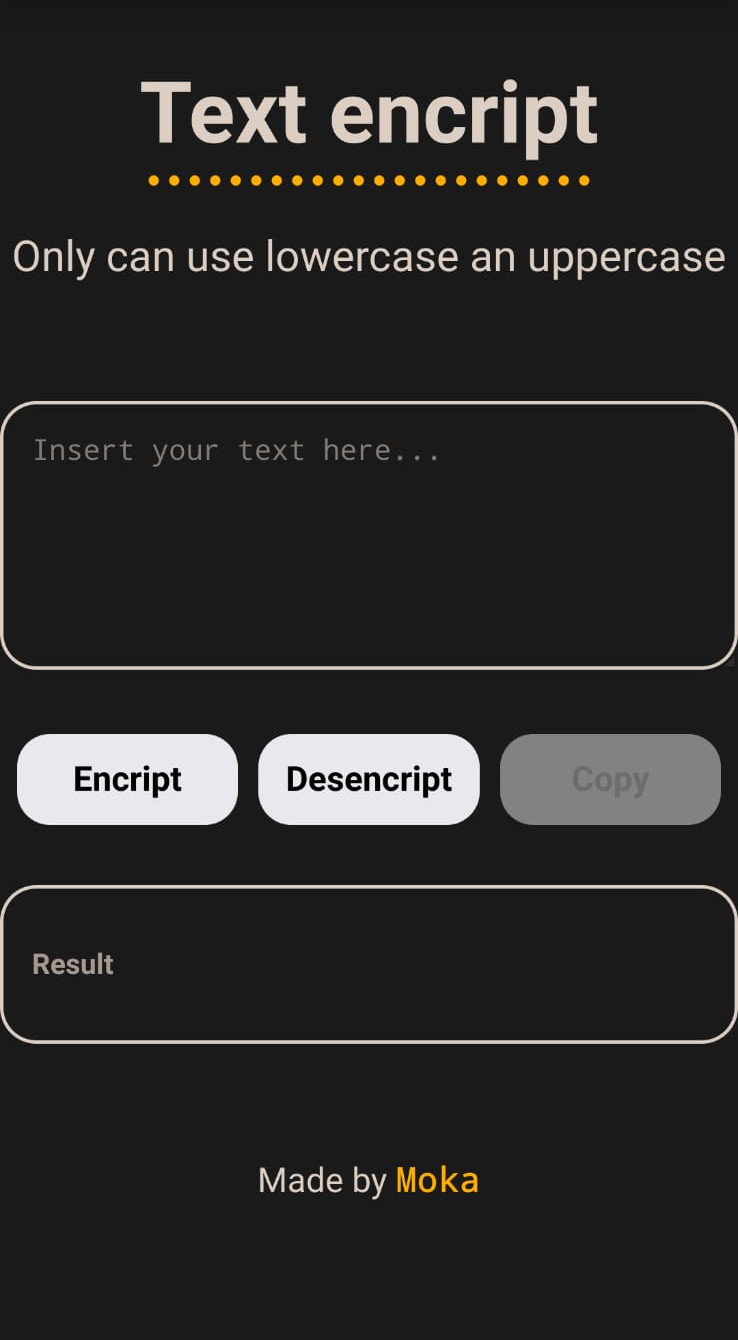
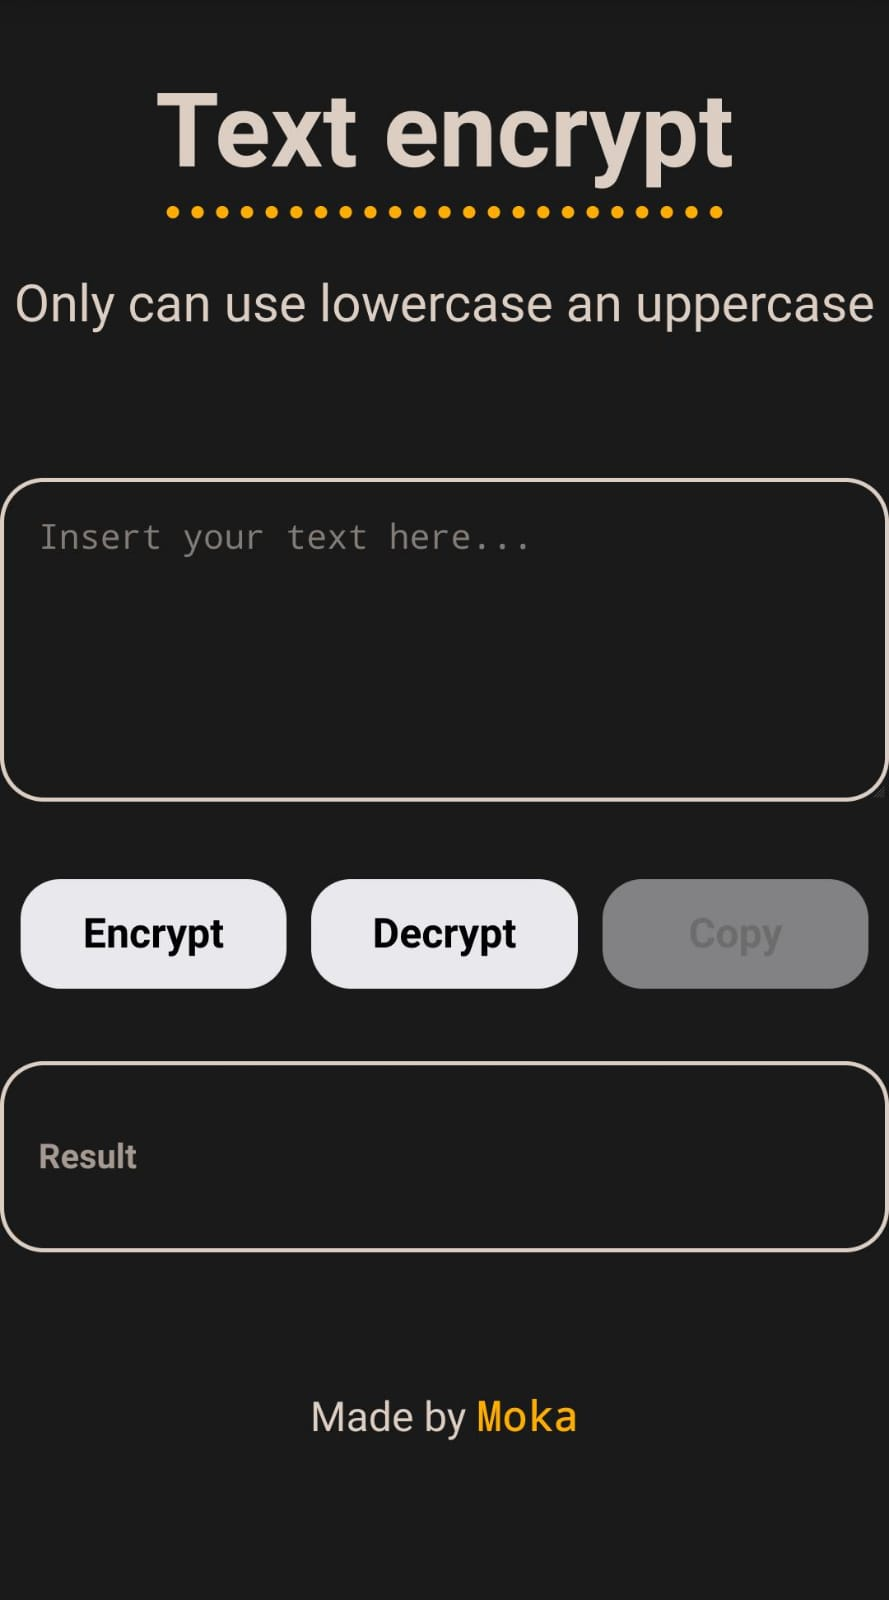
img correction

diff --git a/index.html b/index.html
@@ -21,7 +21,7 @@
                 <textarea class="textArea" name="textareaEncrypt" id="INPUT_TEXT" placeholder="Insert your text here..."  rows="6"></textarea>
                 <div class="button-wrapper flex">
                     <button class="form-btn btn" id="BTN_ENCRYPT" onclick="encryptText()">Encrypt</button>
-                    <button class="form-btn btn" id="BTN_DECRYPT" onclick="decryptText()">DECRYPT</button>
+                    <button class="form-btn btn" id="BTN_DECRYPT" onclick="decryptText()">Decrypt</button>
                     <button class="form-btn btn" id="BTN_COPY" onclick="copyText()" disabled>Copy</button>
                 </div>
             </section>

diff --git a/README.md b/README.md
@@ -1,7 +1,7 @@
 # TextEncript
 Este encriptador de texto es uno de los desafios de ALORA
 
-![Muestra de la aplicacion web.](imagenMuestra-1.jpeg)
+![Muestra de la aplicacion web.](imagenMuestra.jpeg)
 
 ## Uso
 1- Insertar el texto que se desea encriptar o desencriptar en el primer area de texto.
